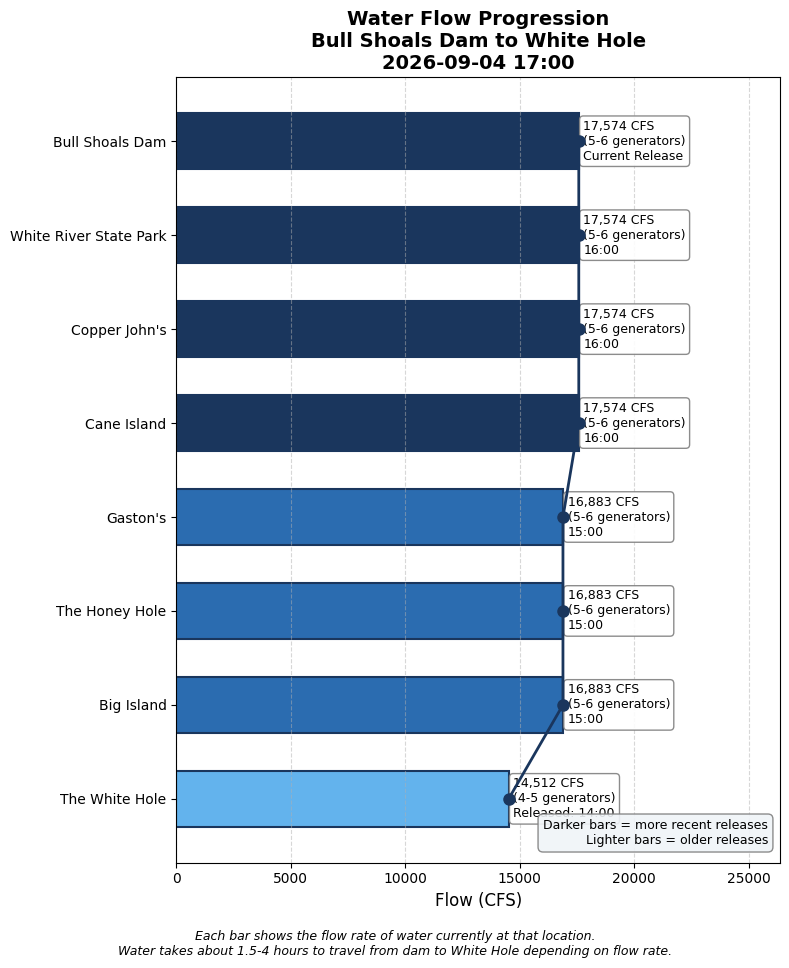
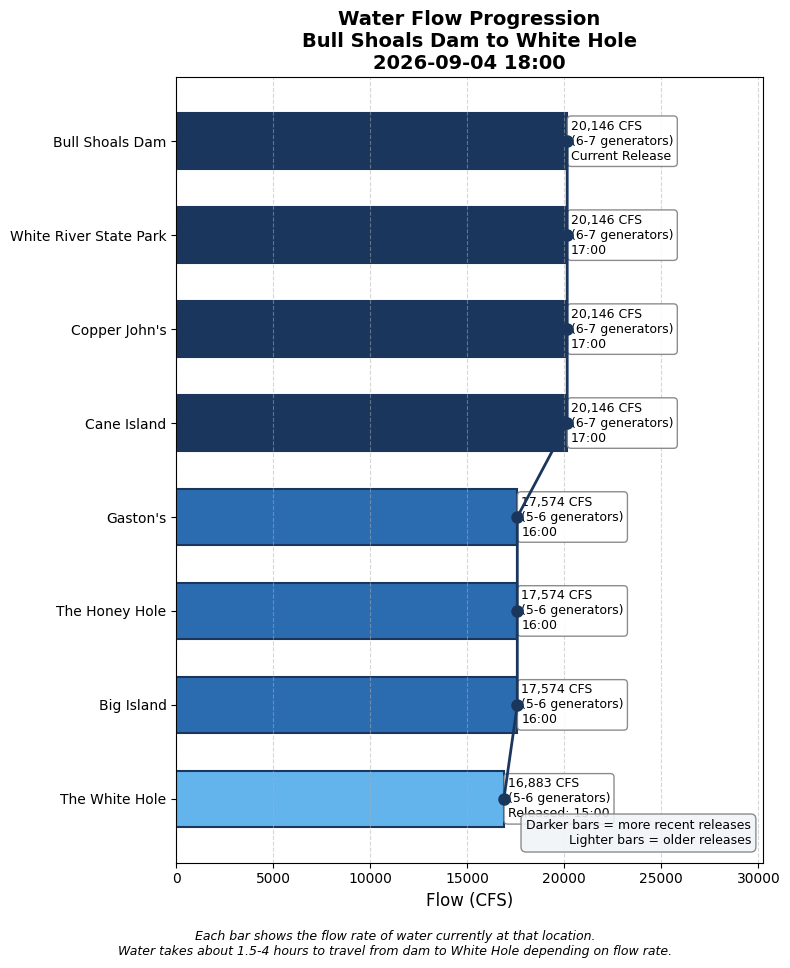
Update water conditions 2026-09-04 19:00

diff --git a/white_hole_conditions.html b/white_hole_conditions.html
@@ -3,7 +3,7 @@
 <head>
     <meta charset="UTF-8">
     <meta name="viewport" content="width=device-width, initial-scale=1.0">
-    <title>White Hole Conditions - 2026-09-04 17:00</title>
+    <title>White Hole Conditions - 2026-09-04 18:00</title>
     <style>
         body {
             font-family: -apple-system, BlinkMacSystemFont, 'Segoe UI', Roboto, sans-serif;
@@ -148,21 +148,21 @@
 </head>
 <body>
     <h1>White Hole Current Conditions</h1>
-    <p class="subtitle">Friday, September 04, 2026 at 05:00 PM</p>
+    <p class="subtitle">Friday, September 04, 2026 at 06:00 PM</p>
 
 
     <!-- HEADLINE BANNER -->
     <div class="headline-banner">
         <div class="main-status">🚫 NO WADING — Water too high for safe wading</div>
-        <div class="forecast-status">⏱ RISING WATER arriving in ~7 minutes</div>
+        <div class="forecast-status">➡ STABLE CONDITIONS expected</div>
         
     </div>
 
     <!-- CURRENT CONDITIONS -->
     <div class="current-conditions">
         <h3>Current Conditions at White Hole</h3>
-        <div class="flow-display">14,512 CFS</div>
-        <div class="generator-display">Equivalent to 4-5 generators</div>
+        <div class="flow-display">16,883 CFS</div>
+        <div class="generator-display">Equivalent to 5-6 generators</div>
         <div class="condition-pills">
             <span class="pill wading">No Wading</span>
             <span class="pill boating">High Water</span>
@@ -190,6 +190,14 @@
                 <tr><td colspan="3" style="padding: 8px 10px; font-size: 0.8em; font-weight: bold; color: #6b46c1; text-transform: uppercase; letter-spacing: 0.05em; background-color: #f3e8ff;">Scheduled (SWPA forecast)</td></tr>
                 
                     <tr style="background-color: #faf5ff; ">
+                        <td style="padding: 10px; font-weight: bold;">9 PM</td>
+                        <td style="padding: 10px;">2,276 CFS<br><small style="color: #666;">(0-1 generators: 2026 generation + 250 min flow)</small></td>
+                        <td style="padding: 10px;">~12:33 AM
+                            <span style="display: inline-block; margin-left: 6px; padding: 2px 8px; border-radius: 12px; font-size: 0.8em; background-color: #fef3c7; color: #92400e;">Still Wadable</span>
+                        </td>
+                    </tr>
+                
+                    <tr style="background-color: #faf5ff; ">
                         <td style="padding: 10px; font-weight: bold;">8 PM</td>
                         <td style="padding: 10px;">6,327 CFS<br><small style="color: #666;">(1-2 generators: 6077 generation + 250 min flow)</small></td>
                         <td style="padding: 10px;">~10:49 PM
@@ -213,39 +221,31 @@
                         </td>
                     </tr>
                 
-                    <tr style="background-color: #faf5ff; ">
-                        <td style="padding: 10px; font-weight: bold;">5 PM</td>
-                        <td style="padding: 10px;">21,519 CFS<br><small style="color: #666;">(6-7 generators: 21269 generation + 250 min flow)</small></td>
-                        <td style="padding: 10px;">~6:49 PM
-                            <span style="display: inline-block; margin-left: 6px; padding: 2px 8px; border-radius: 12px; font-size: 0.8em; background-color: #fee2e2; color: #991b1b;">No Wading</span>
-                        </td>
-                    </tr>
-                
             
                     
                 <tr><td colspan="3" style="padding: 8px 10px; font-size: 0.8em; font-weight: bold; color: #2b6cb0; text-transform: uppercase; letter-spacing: 0.05em; background-color: #ebf8ff;">Actual (dam readings)</td></tr>
                 
                     <tr style="background-color: #ebf8ff;">
-                        <td style="padding: 10px; font-weight: bold;">4:00 PM</td>
-                        <td style="padding: 10px;">17,574 CFS<br><small style="color: #666;">(5-6 generators)</small></td>
-                        <td style="padding: 10px;"><span style="color: #2b6cb0;">→ Arrives ~6:06 PM (in 65 min)</span></td>
+                        <td style="padding: 10px; font-weight: bold;">5:00 PM</td>
+                        <td style="padding: 10px;">20,146 CFS<br><small style="color: #666;">(6-7 generators)</small></td>
+                        <td style="padding: 10px;"><span style="color: #2b6cb0;">→ Arrives ~6:55 PM (in 54 min)</span></td>
                     </tr>
                 
                     <tr style="background-color: #ebf8ff;">
-                        <td style="padding: 10px; font-weight: bold;">3:00 PM</td>
-                        <td style="padding: 10px;">16,883 CFS<br><small style="color: #666;">(5-6 generators)</small></td>
-                        <td style="padding: 10px;"><span style="color: #2b6cb0;">→ Arrives ~5:08 PM (in 7 min)</span></td>
+                        <td style="padding: 10px; font-weight: bold;">4:00 PM</td>
+                        <td style="padding: 10px;">17,574 CFS<br><small style="color: #666;">(5-6 generators)</small></td>
+                        <td style="padding: 10px;"><span style="color: #2b6cb0;">→ Arrives ~6:06 PM (in 5 min)</span></td>
                     </tr>
                 
                     <tr style="background-color: #e6fffa;">
-                        <td style="padding: 10px; font-weight: bold;">2:00 PM</td>
-                        <td style="padding: 10px;">14,512 CFS<br><small style="color: #666;">(4-5 generators)</small></td>
+                        <td style="padding: 10px; font-weight: bold;">3:00 PM</td>
+                        <td style="padding: 10px;">16,883 CFS<br><small style="color: #666;">(5-6 generators)</small></td>
                         <td style="padding: 10px;"><span style="color: #319795; font-weight: bold;">← AT WHITE HOLE NOW</span></td>
                     </tr>
                 
                     <tr style="">
-                        <td style="padding: 10px; font-weight: bold;">11:00 AM</td>
-                        <td style="padding: 10px;">716 CFS<br><small style="color: #666;">(0-1 generators)</small></td>
+                        <td style="padding: 10px; font-weight: bold;">12:00 PM</td>
+                        <td style="padding: 10px;">4,941 CFS<br><small style="color: #666;">(1-2 generators)</small></td>
                         <td style="padding: 10px;"><span style="color: #718096;">passed</span></td>
                     </tr>
                 
@@ -276,9 +276,9 @@
         </summary>
         <div style="padding: 15px;">
             <ul>
-                <li>Latest dam reading: 17,574 CFS at 2026-09-04 16:00</li>
-                <li>Travel time to White Hole: 2.3 hours at current flow</li>
-                <li>White Hole conditions based on dam reading from: 2026-09-04 14:00</li>
+                <li>Latest dam reading: 20,146 CFS at 2026-09-04 17:00</li>
+                <li>Travel time to White Hole: 2.1 hours at current flow</li>
+                <li>White Hole conditions based on dam reading from: 2026-09-04 15:00</li>
             </ul>
         </div>
     </details>
@@ -300,6 +300,13 @@
                     </thead>
                     <tbody>
                         
+                <tr style="border-bottom: 1px solid #eee;">
+                    <td style="padding: 8px;">2026-09-04 17:00</td>
+                    <td style="padding: 8px; text-align: right;">20146</td>
+                    <td style="padding: 8px; text-align: right;">6.1</td>
+                    <td style="padding: 8px; text-align: right;">1.9</td>
+                </tr>
+                
                 <tr style="border-bottom: 1px solid #eee;">
                     <td style="padding: 8px;">2026-09-04 16:00</td>
                     <td style="padding: 8px; text-align: right;">17574</td>
@@ -370,13 +377,6 @@
                     <td style="padding: 8px; text-align: right;">3.7</td>
                 </tr>
                 
-                <tr style="border-bottom: 1px solid #eee;">
-                    <td style="padding: 8px;">2026-09-04 06:00</td>
-                    <td style="padding: 8px; text-align: right;">737</td>
-                    <td style="padding: 8px; text-align: right;">0.2</td>
-                    <td style="padding: 8px; text-align: right;">3.7</td>
-                </tr>
-                
                     </tbody>
                 </table>
             </div>
@@ -388,44 +388,40 @@
     <details class="timeline-box">
         <summary style="cursor: default; list-style: none;">
             <h3 style="display: inline;">🎣 Fishing Report — Gaston's to Cranor's Island</h3>
-            <span style="color: #666; margin-left: 8px;">3–5 units (10,000–16,500 CFS) · 14,512 CFS</span>
+            <span style="color: #666; margin-left: 8px;">Heavy generation (16,500+ CFS) · 16,883 CFS</span>
         </summary>
         <p style="color: #666; margin: 12px 0 4px;">Fall (September–October): pre-spawn browns</p>
         
-        <p style="font-size: 1.1em; margin: 10px 0;"><strong>3–5 units (10,000–16,500 CFS)</strong>
-            — 14,512 CFS at White Hole (4-5 generators)</p>
-        <p style="color: #444;">Boat water — and the big-brown window. Drag chain, not anchor. Bank ties need a real eddy. No wading anywhere.</p>
+        <p style="font-size: 1.1em; margin: 10px 0;"><strong>Heavy generation (16,500+ CFS)</strong>
+            — 16,883 CFS at White Hole (5-6 generators)</p>
+        <p style="color: #444;">20,000+ CFS class water. Debris moving, no wading anywhere, and this is not a small-rental-jon proposition. Fish true slack water only — or wait for the drop.</p>
         <p style="margin: 6px 0; font-size: 0.9em;"><a href="https://www.google.com/maps?q=36.347597191038865,-92.55540040484095" target="_blank" style="color: #2b6cb0;">📍 Gaston's</a> · <a href="https://www.google.com/maps?q=36.329897607316106,-92.53355649411128" target="_blank" style="color: #2b6cb0;">📍 White Hole</a> · <a href="https://www.google.com/maps?q=36.333492497534266,-92.56191314472997" target="_blank" style="color: #2b6cb0;">📍 Cranor's Island</a></p>
         <h4 style="color: #2c3e50; margin: 18px 0 6px;">Where to go</h4>
-        <ul style="margin: 0 0 0 5px;"><li>Bank edges with soft water: real eddies, inside bends, current breaks behind structure</li><li>The shelf where flooded bank drops to channel — big browns take station on it</li><li>Slack pockets downstream of Cranor's Island</li></ul>
+        <ul style="margin: 0 0 0 5px;"><li>True slack water only: backwaters, the inside of the biggest eddies, flooded margins out of the current</li><li>Seriously consider not launching — watch the SWPA schedule for the cut and plan around the fall-out instead</li></ul>
 
         <h4 style="color: #2c3e50; margin: 18px 0 6px;">Boat &amp; anchoring</h4>
-        <ul style="margin: 0 0 0 5px;"><li>Do NOT anchor in current — this is how people drown on this river. Drag chain (legal on the White) or tie high in a genuine eddy</li><li>Bow upstream, slip knot, knife in reach, re-tend the rope constantly</li><li>Drifting the soft bank lane covers the minnow/swimbait water a tied boat can't reach — driver on the tiller, everyone else fishes</li><li>Debris starts moving at these flows; keep watch upstream</li></ul>
+        <ul style="margin: 0 0 0 5px;"><li>Never anchor. Never tie in current. If afloat, stay in slack water and off the main flow</li><li>Re-check the schedule and the ramp before committing — this level with a rental jon is a risk decision, not a tactics decision</li></ul>
 
         <h4 style="color: #2c3e50; margin: 18px 0 6px;">Timing</h4>
-        <ul style="margin: 0 0 0 5px;"><li>Fish the generation change: the leading edge of a rise and the first hour of falling water beat any time on the clock</li><li>RISE EN ROUTE: 16,883 CFS (5-6 generators) reaches White Hole ~5:08 PM — cast worms near the banks in the first hour, then fish the Heavy generation (16,500+ CFS) program</li><li>SCHEDULED RISE to 21,519 CFS (6-7 generators) at 5 PM: Gaston's ~6:04 PM · White Hole ~6:49 PM · Cranor's Island ~7:29 PM. Downstream water stays low longer — be below the front and fish it up</li></ul>
+        <ul style="margin: 0 0 0 5px;"><li>Fish the generation change: the leading edge of a rise and the first hour of falling water beat any time on the clock</li><li>SCHEDULED RISE to 19,493 CFS (5-6 generators) at 6 PM: Gaston's ~7:09 PM · White Hole ~7:58 PM · Cranor's Island ~8:40 PM. Downstream water stays low longer — be below the front and fish it up</li></ul>
 
         <div style="background-color: #f0f7f4; border-radius: 8px; padding: 15px; margin-top: 18px;">
             <h4 style="color: #2c3e50; margin: 0 0 8px;">🎣 Spin Fishing</h4>
-            <p style="margin: 4px 0;"><strong>Rig:</strong> White River rig: 1/2 oz bell (#6), hook leg 18–24 in. A tied boat needs roughly double the drift-chart weight to hold bottom. 'Leader' below = the line the whole Y is tied from.</p>
+            <p style="margin: 4px 0;"><strong>Rig:</strong> White River rig: 1 oz bell (#4) or bank sinker, short leg — slack-water soaks only.</p>
             
             <p style="margin: 10px 0 4px;"><strong style="color: #7b4a12;">🟤 Browns — trophy program (all released)</strong></p>
-            <ul style="margin: 0 0 0 5px;"><li>Leader: 8 lb fluorocarbon — guide-class line for exactly this water</li><li>3-in minnow on the split-shot rig (stack shot to match the push), lips-hooked, drifted down the bank edge — from a tied boat, work the lane flowing past you with a quartering-upstream cast and fed line; on a boat drift, cover the whole bank. The documented high-water big-trout method</li><li>Keitech FAT 3.8/4.3 on the 3/8 oz Flashy Swimmer swum along the bank</li><li>Suspending perch jerkbait with long pauses in eddies and seams</li><li>Two whole crawlers on the White River rig (#1 drop-shot hook), downstream and held</li><li>The crawdad presentation earns its fall slot — soft-shell crawdads are a named top natural bait for browns: half a green-pumpkin Senko on the 1/10 oz Ned head (tied direct), or a soft craw plastic if bought (see gear check — not owned)</li></ul>
+            <ul style="margin: 0 0 0 5px;"><li>Leader: 8 lb fluorocarbon</li><li>4 in white Tab Tail or Keitech 4.3 on its swimbait head (tied direct), pitched along slack margins for a hunting brown</li><li>The crawdad presentation earns its fall slot — soft-shell crawdads are a named top natural bait for browns: half a green-pumpkin Senko on the 1/10 oz Ned head (tied direct), or a soft craw plastic if bought (see gear check — not owned)</li></ul>
             <p style="margin: 10px 0 4px;"><strong style="color: #9d2f4c;">🌈 Rainbows &amp; others — numbers program (keep 2 under 14 in)</strong></p>
-            <ul style="margin: 0 0 0 5px;"><li>Leader: 4 lb mono</li><li>Soft-water soaks only: whole crawler or shrimp on the White River rig in eddies and slack lanes off the push</li><li>Honestly, this is a browns level — save the numbers game for the drop</li><li>Orange scented-garlic PowerBait is the named fall color</li></ul>
+            <ul style="margin: 0 0 0 5px;"><li>Leader: 4 lb mono</li><li>Whole crawlers or shrimp soaked on the White River rig in true slack edges — that's the whole program</li><li>Orange scented-garlic PowerBait is the named fall color</li></ul>
             
             <p style="margin: 10px 0 4px;"><strong>Notes:</strong></p>
-            <ul style="margin: 0 0 0 5px;"><li>Calibrate weight: the rig should hold, then slip a few inches when the tip is lifted. Never moves = too heavy; never stops = too light</li></ul>
+            <ul style="margin: 0 0 0 5px;"><li>The honest play is timing, not tackle: fish the first hours after the cut, when the river drops back through the good bands</li></ul>
         </div>
 
         <div style="background-color: #f4f2f7; border-radius: 8px; padding: 15px; margin-top: 12px;">
             <h4 style="color: #2c3e50; margin: 0 0 8px;">🪶 Fly Fishing (9 ft 5-wt)</h4>
-            <p style="margin: 4px 0;"><strong>Setup:</strong> Honestly limited water for a floating-line 5-wt. If you fish it: the sink-leader swing from a boat tied in a true eddy, or park the fly rod until the drop.</p>
+            <p style="margin: 4px 0;"><strong>Setup:</strong> The fly rod stays cased at this level.</p>
             
-            <p style="margin: 10px 0 4px;"><strong style="color: #7b4a12;">🟤 Browns — trophy program (all released)</strong></p>
-            <ul style="margin: 0 0 0 5px;"><li>Tippet: 8 lb fluoro on the sink leader</li><li>Olive Woolly Bugger / black Girdle Bug #8 swung slow and deep through eddy seams</li><li>A #10 hopper on warm afternoons — browns here reportedly favor pink and black/purple hoppers</li></ul>
-            <p style="margin: 10px 0 4px;"><strong style="color: #9d2f4c;">🌈 Rainbows &amp; others — numbers program (keep 2 under 14 in)</strong></p>
-            <ul style="margin: 0 0 0 5px;"><li>Sit this level out, or dredge a worm/egg under a heavily weighted indicator in true slack only</li><li>Dry-dropper a hopper over the soft bank water on warm afternoons</li></ul>
         </div>
 
         <h4 style="color: #2c3e50; margin: 18px 0 6px;">Season notes</h4>
@@ -495,7 +491,7 @@
     </details>
 
     <div class="timestamp">
-        Data retrieved and processed on 2026-09-04 17:00:19 (Central time)<br>
+        Data retrieved and processed on 2026-09-04 18:00:28 (Central time)<br>
         Travel times are observational estimates (per <a href="https://www.hisplaceresort.net/white-river-info" target="_blank" style="color: #718096;">His Place Resort</a>) &mdash; always judge wading safety on-site.<br>
         &copy; 2026 Brian Carroll. All rights reserved.
     </div>
